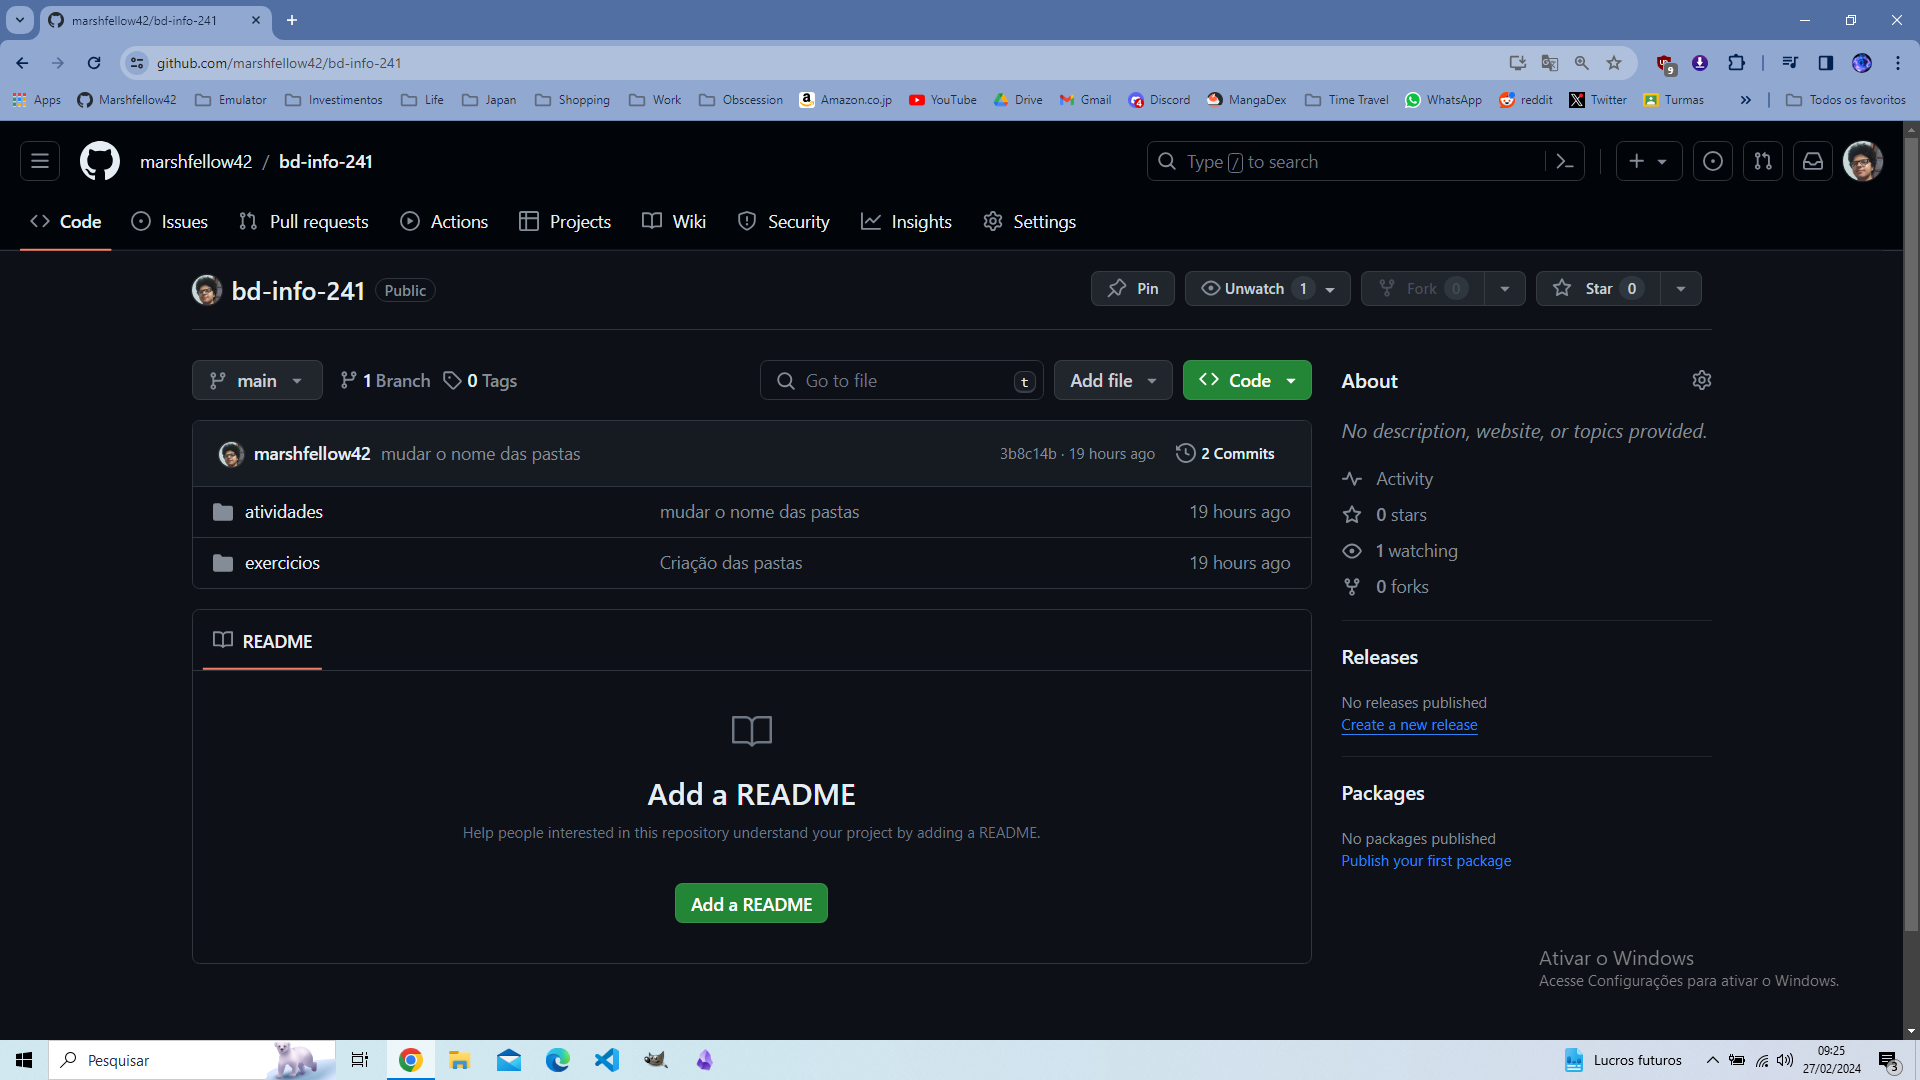
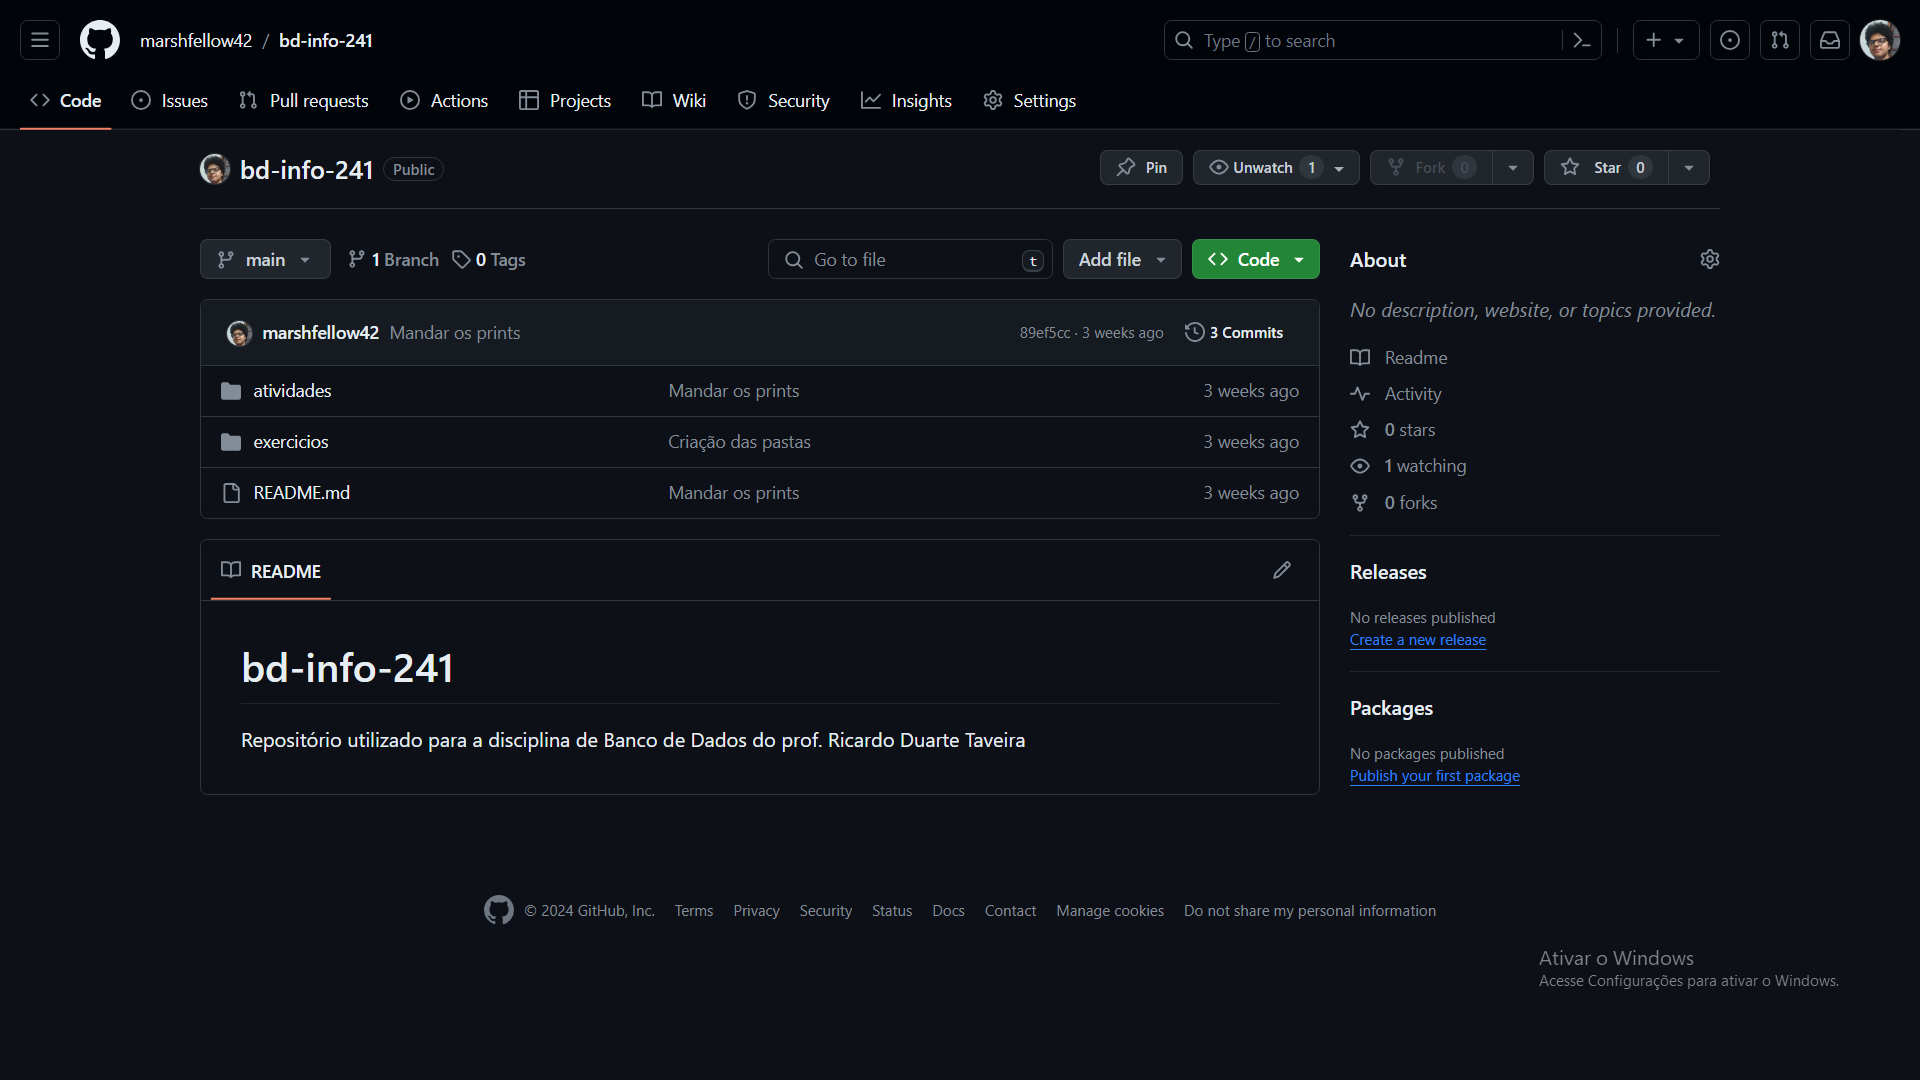
Mandar a atividade 2

diff --git a/atividades/atividade-02/README.md b/atividades/atividade-02/README.md
@@ -1,0 +1,9 @@
+# Atividade-02
+Defina os seguintes conceitos centrais da abordagem ER:
+a) Entidade;
+b) Relacionamento;
+c) Atributo;
+d) Domínio de um Atributo;
+e) Generalização/especialização;
+f) Entidade Associativa;
+g) Cardinalidade de um Atributo.
